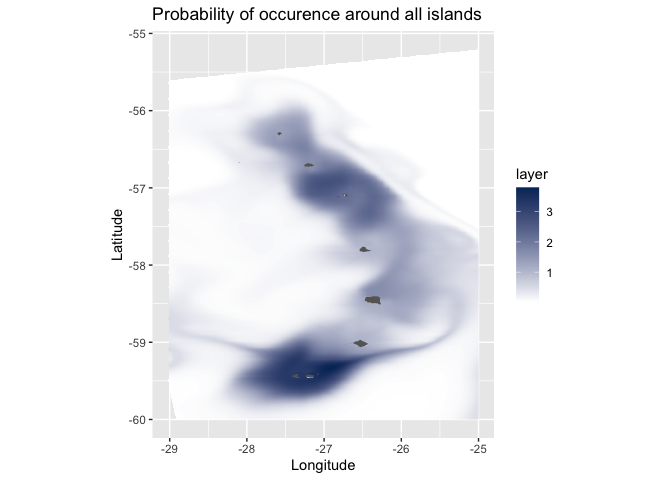
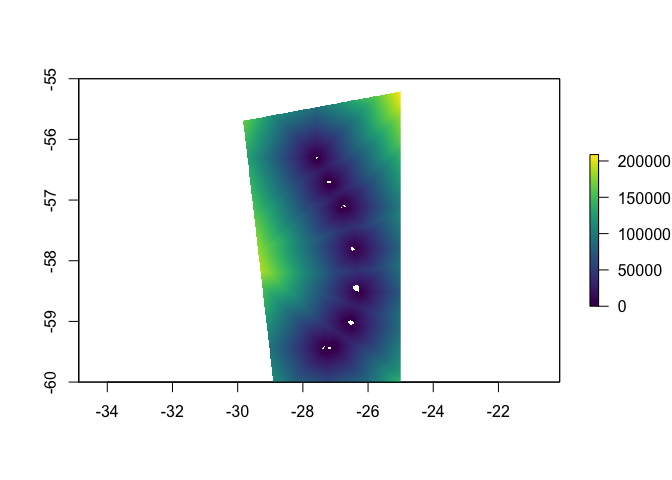
Fixed method for plotting for p of occurrence around all islands

diff --git a/6_Predictions.md b/6_Predictions.md
@@ -558,22 +558,45 @@ plot_predicted_distribution(get(paste0(colony_code, "_predicted")), "Thule")
 
 ![](6_Predictions_files/figure-gfm/unnamed-chunk-20-10.png)<!-- -->
 
-Plot all of them on one
-plot.
+### Predict for all colonies at the same time
+
+I can’t just sum up all the individual raster layers and plot, because
+the distributions around Thule, Cook, and Bellingshausen overlap so
+much.
 
 ``` r
-stack_predicted <- stack(ZAV_predicted, VIS_predicted, CAND_predicted, VIND_predicted, SAUN_predicted, MONT_predicted, BRIS_predicted, BELL_predicted, COOK_predicted, THUL_predicted)
+# Find the cells where the colonies are in the raster x
+j <- cellFromXY(x, colonies)
+x[j] <- 2 
 
-stack_predicted_sum <- calc(stack_predicted, sum)
+# Create a distance raster from all colonies
+dist <- gridDistance(x, origin=2, omit=NA)
+plot(dist, col = viridis(100))
+```
+
+![](6_Predictions_files/figure-gfm/unnamed-chunk-21-1.png)<!-- -->
+
+``` r
+# sample the distance layers
+All_1KmPoints$SST <- raster::extract(wMeanSST_resampled, All_1KmPoints)
+All_1KmPoints$colonydist <- raster::extract(dist, All_1KmPoints)
+# Make predictions
+All_1KmPoints$GAM_pred <- as.numeric(predict(GAM, type="response", newdata = All_1KmPoints))
+# change points into LAEA 
+All_1KmPoints <- spTransform(All_1KmPoints, CRS = "+proj=laea +lon_0=-26 +lat_0=-58 +units=m")
+# rasterize the predicted values
+r3 <- rasterize(All_1KmPoints, r, 'GAM_pred', fun=mean)
+# project back to WGS84 for plotting
+r3 <- projectRaster(from = r3, to = dist)
 
 # Convert to a SpatialPointsDataFrame
-stack_predicted_sum_pts <- rasterToPoints(stack_predicted_sum, spatial = TRUE)
+r3_pts <- rasterToPoints(r3, spatial = TRUE)
 # Then to a dataframe
-stack_predicted_sum_df  <- data.frame(stack_predicted_sum_pts)
-rm(stack_predicted_sum_pts)
+r3_df  <- data.frame(r3_pts)
+rm(r3_pts)
 
 ggplot() +
-  geom_raster(data = stack_predicted_sum_df , aes(x = x, y = y, fill = layer)) + 
+  geom_raster(data = r3_df , aes(x = x, y = y, fill = layer)) + 
   scale_fill_gradientn(colours=c("#FFFFFFFF","#003366")) +
   geom_polygon(data = SSI_polygons.df, aes(x = long, y = lat, group = group), fill = "grey40") +
   ggtitle(paste0("Probability of occurence around all islands")) +
@@ -582,15 +605,11 @@ ggplot() +
   ylab("Latitude")
 ```
 
-![](6_Predictions_files/figure-gfm/unnamed-chunk-21-1.png)<!-- -->
-
-This doesn’t work because the predictions around Cook, Thule, and
-Bellingshausen are summing because they’re basically on top of each
-other… I think that if I want to do it this way then I need to go back
-to the way I originally did it, where I had just a single distance
-raster for all colonies and had just one predictec output raster.
+![](6_Predictions_files/figure-gfm/unnamed-chunk-21-2.png)<!-- -->
 
 ### Calculate weighted distributions for each island
+
+This uses the single island predicted distributions calculated above.
 
 Calculate the importance of each cell by dividing its value (the
 probability of occurrence of a penguin) by the sum of the probability of
